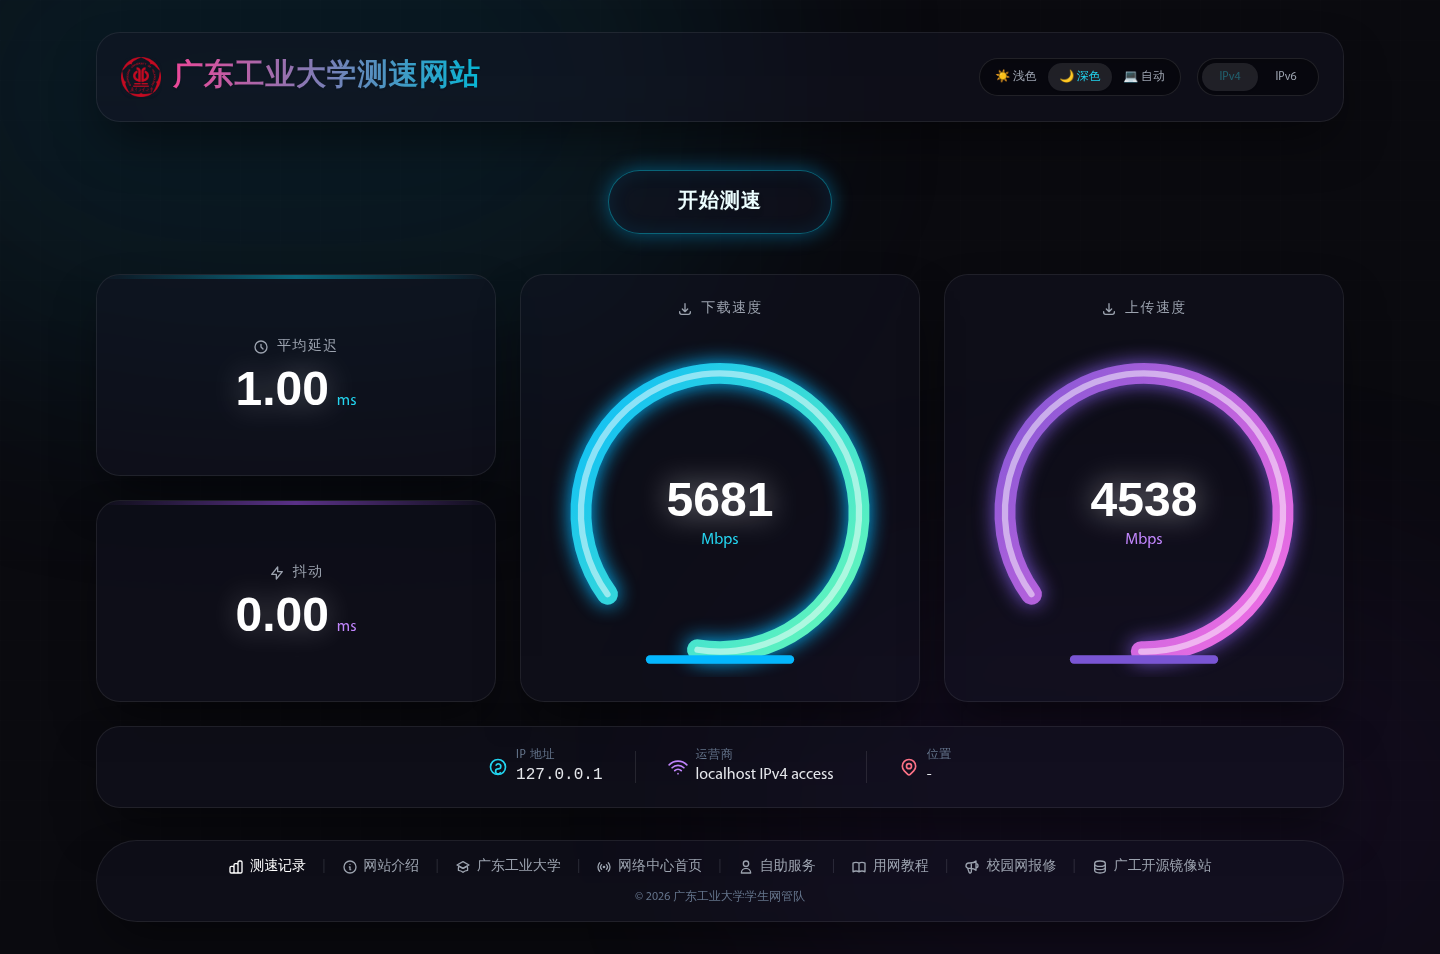
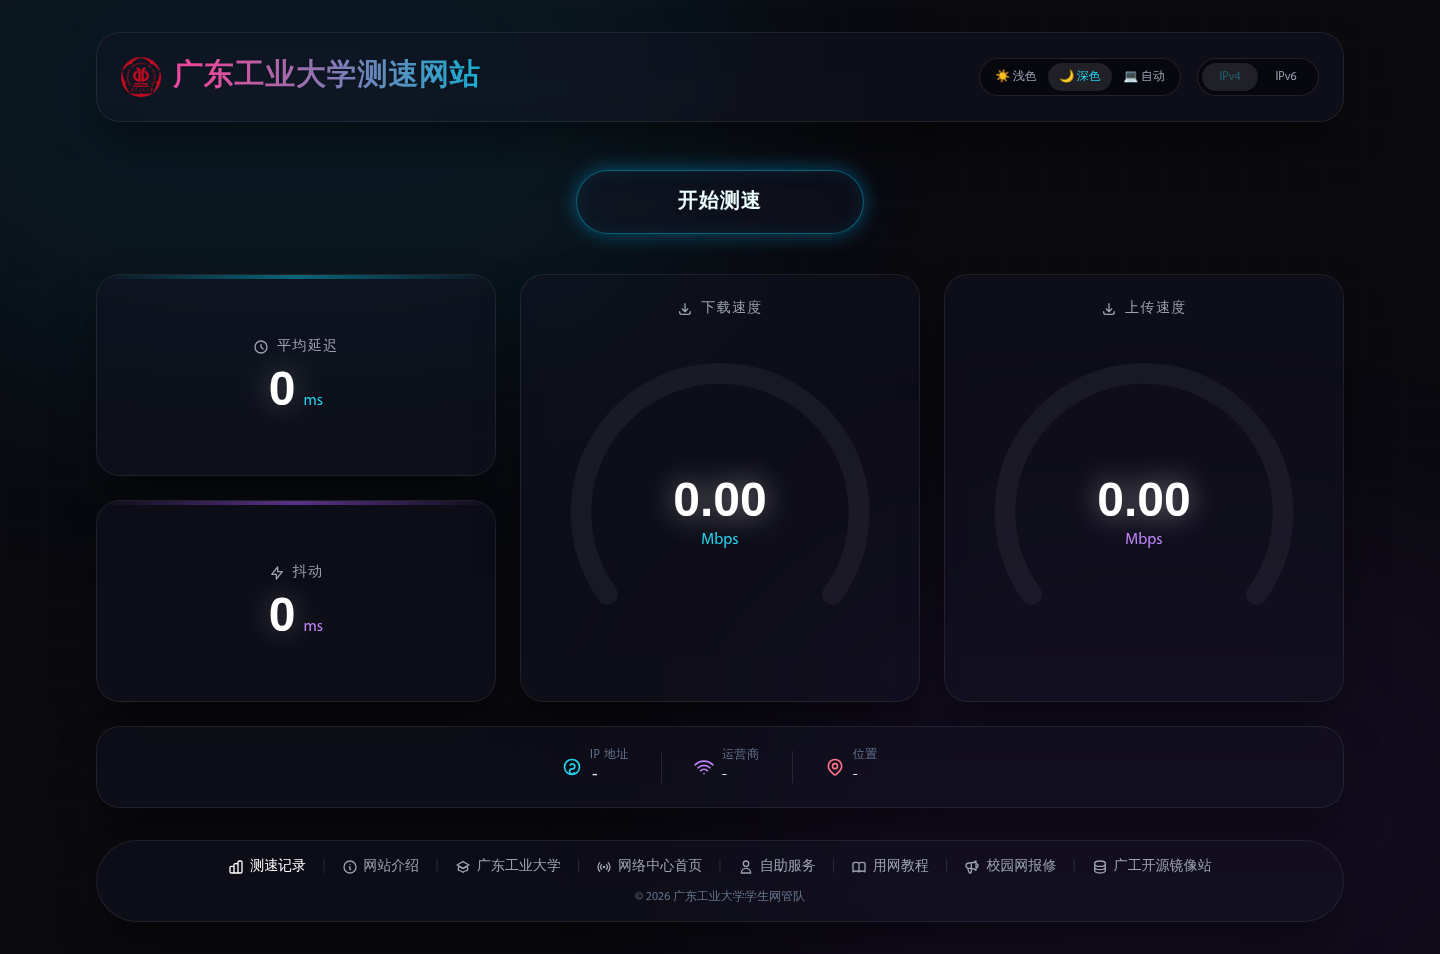
检测网络环境期间v4/v6按钮和滑块全部灰掉
- 页面加载后IPv4/IPv6按钮和滑块设为opacity:0.35+pointer-events:none
- 检测期间按钮文字显示「正在检测当前网络环境」,点击无反应
- Promise.all检测完成后:
  - slider恢复可交互
  - 探测成功的按钮调用enableBtn恢复
  - 探测失败的按钮保持disableBtn灰掉状态
- 开始测速按钮w-56→w-72扩宽容纳长文字
- startStop()开头加ipDetecting守卫,检测期间点击无反应

diff --git a/index.html b/index.html
@@ -264,7 +264,7 @@
             
             <!-- CTA Island -->
             <div class="md:col-span-12 flex justify-center items-center py-4">
-                <button id="startStopBtn" onclick="startStop()" class="relative group w-56 h-16 rounded-full glass-panel border border-cyan-500/30 dark:border-cyan-500/50 cta-glow overflow-hidden flex items-center justify-center">
+                <button id="startStopBtn" onclick="startStop()" class="relative group w-72 h-16 rounded-full glass-panel border border-cyan-500/30 dark:border-cyan-500/50 cta-glow overflow-hidden flex items-center justify-center transition-all duration-300">
                     <div class="absolute inset-0 bg-gradient-to-r from-cyan-500/10 to-purple-500/10 dark:from-cyan-500/20 dark:to-purple-500/20 opacity-0 group-hover:opacity-100 transition-opacity duration-300"></div>
                     <span id="startStopText" class="relative z-10 text-xl font-bold tracking-wider text-cyan-600 dark:text-cyan-50 drop-shadow-sm dark:drop-shadow-md">开始测速</span>
                 </button>
@@ -474,12 +474,23 @@
         })();
 
         // IP Protocol Detection
+        var ipDetecting = true;
         (function() {
             var slider = document.getElementById('ip-slider');
             var btn4 = document.getElementById('btn-ipv4');
             var btn6 = document.getElementById('btn-ipv6');
             var tip4 = document.getElementById('tip-ipv4');
             var tip6 = document.getElementById('tip-ipv6');
+            var startBtn = document.getElementById('startStopBtn');
+            var startText = document.getElementById('startStopText');
+
+            startText.textContent = '正在检测当前网络环境';
+
+            [btn4, btn6, slider].forEach(function(el) {
+                el.style.opacity = '0.35';
+                el.style.pointerEvents = 'none';
+                el.style.cursor = 'not-allowed';
+            });
 
             function setActive(version) {
                 [btn4, btn6].forEach(function(btn) {
@@ -499,6 +510,12 @@
                 tip.classList.remove('hidden');
             }
 
+            function enableBtn(btn) {
+                btn.style.opacity = '';
+                btn.style.pointerEvents = '';
+                btn.style.cursor = '';
+            }
+
             function probeProtocol(url) {
                 return fetch(url, {
                     mode: 'no-cors',
@@ -513,24 +530,36 @@
 
             setActive(onIPv6 ? 6 : 4);
 
+            var probes = [];
             if (!onIPv6) {
-                probeProtocol('https://speed6.gdut.edu.cn/backend/empty.php?r=' + Math.random())
-                    .then(function(ok) { if (!ok) disableBtn(btn6, tip6); });
+                probes.push(probeProtocol('https://speed6.gdut.edu.cn/backend/empty.php?r=' + Math.random())
+                    .then(function(ok) { if (!ok) disableBtn(btn6, tip6); }));
             }
             if (!onIPv4) {
-                probeProtocol('https://speed4.gdut.edu.cn/backend/empty.php?r=' + Math.random())
-                    .then(function(ok) { if (!ok) disableBtn(btn4, tip4); });
+                probes.push(probeProtocol('https://speed4.gdut.edu.cn/backend/empty.php?r=' + Math.random())
+                    .then(function(ok) { if (!ok) disableBtn(btn4, tip4); }));
             }
-
             if (!onIPv4 && !onIPv6) {
-                fetch('./backend/getIP.php')
+                probes.push(fetch('./backend/getIP.php')
                     .then(function(r) { return r.json(); })
                     .then(function(data) {
                         var ip = data.processedString ? data.processedString.split(' - ')[0] : '';
                         if (ip.indexOf(':') !== -1) setActive(6);
                     })
-                    .catch(function() {});
+                    .catch(function() {}));
             }
+
+            Promise.all(probes).then(function() {
+                ipDetecting = false;
+                startText.textContent = '开始测速';
+                slider.style.opacity = '';
+                slider.style.pointerEvents = '';
+                slider.style.cursor = '';
+                if (!tip4.classList.contains('hidden')) disableBtn(btn4, tip4);
+                else enableBtn(btn4);
+                if (!tip6.classList.contains('hidden')) disableBtn(btn6, tip6);
+                else enableBtn(btn6);
+            });
         })();
 
         // Theme Switcher Logic
@@ -723,6 +752,7 @@
         // UI CODE
         var uiData = null;
         function startStop(){
+            if(ipDetecting) return;
             var btn = document.getElementById("startStopBtn");
             var text = document.getElementById("startStopText");
             
